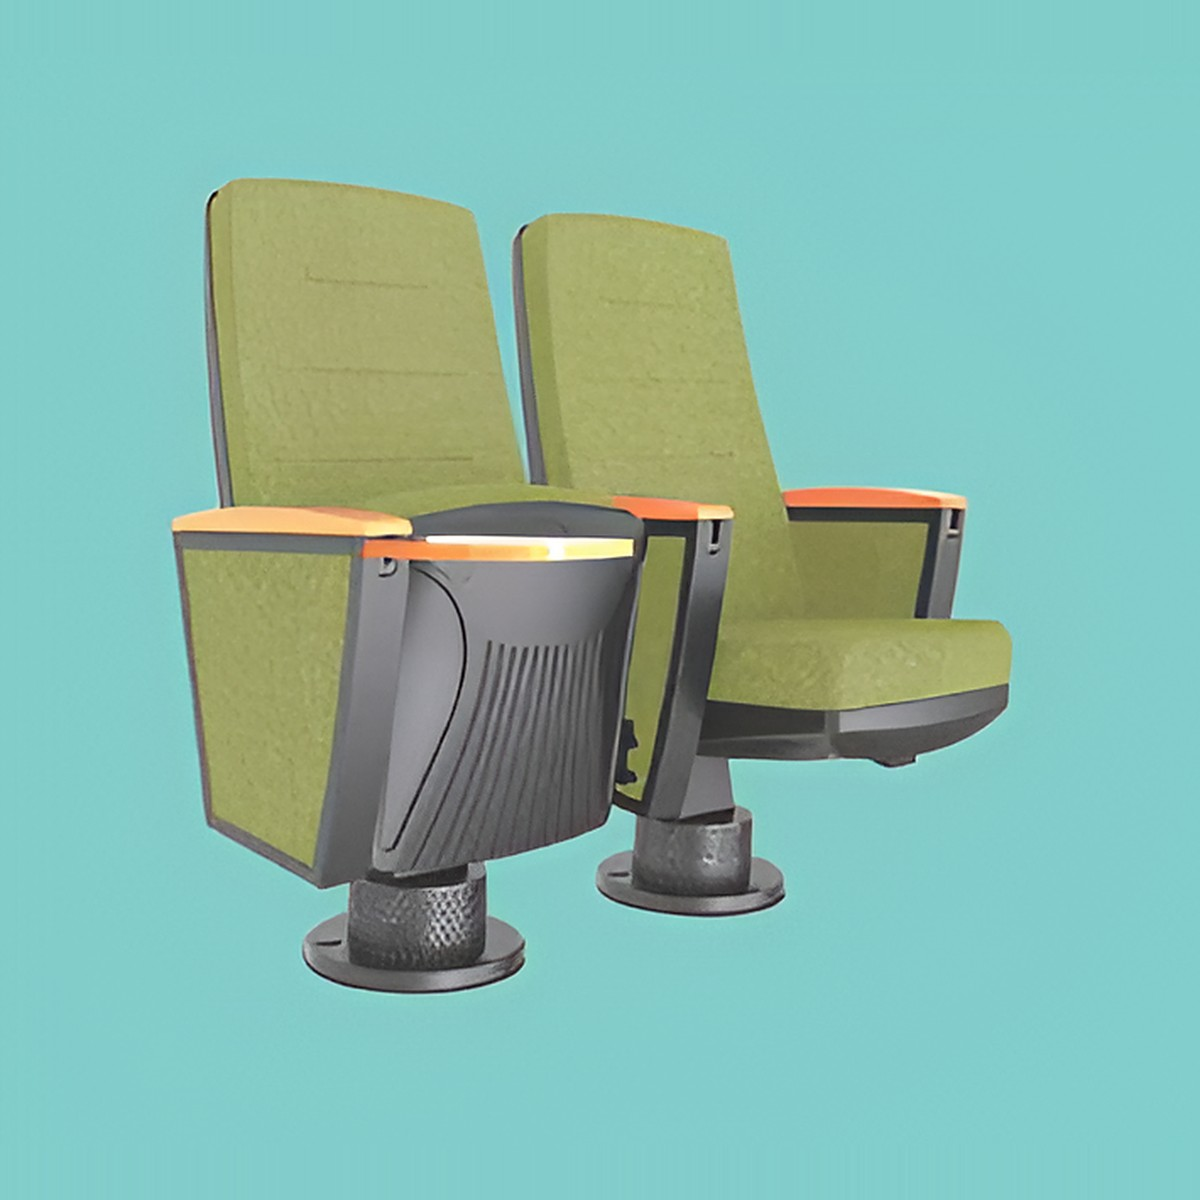
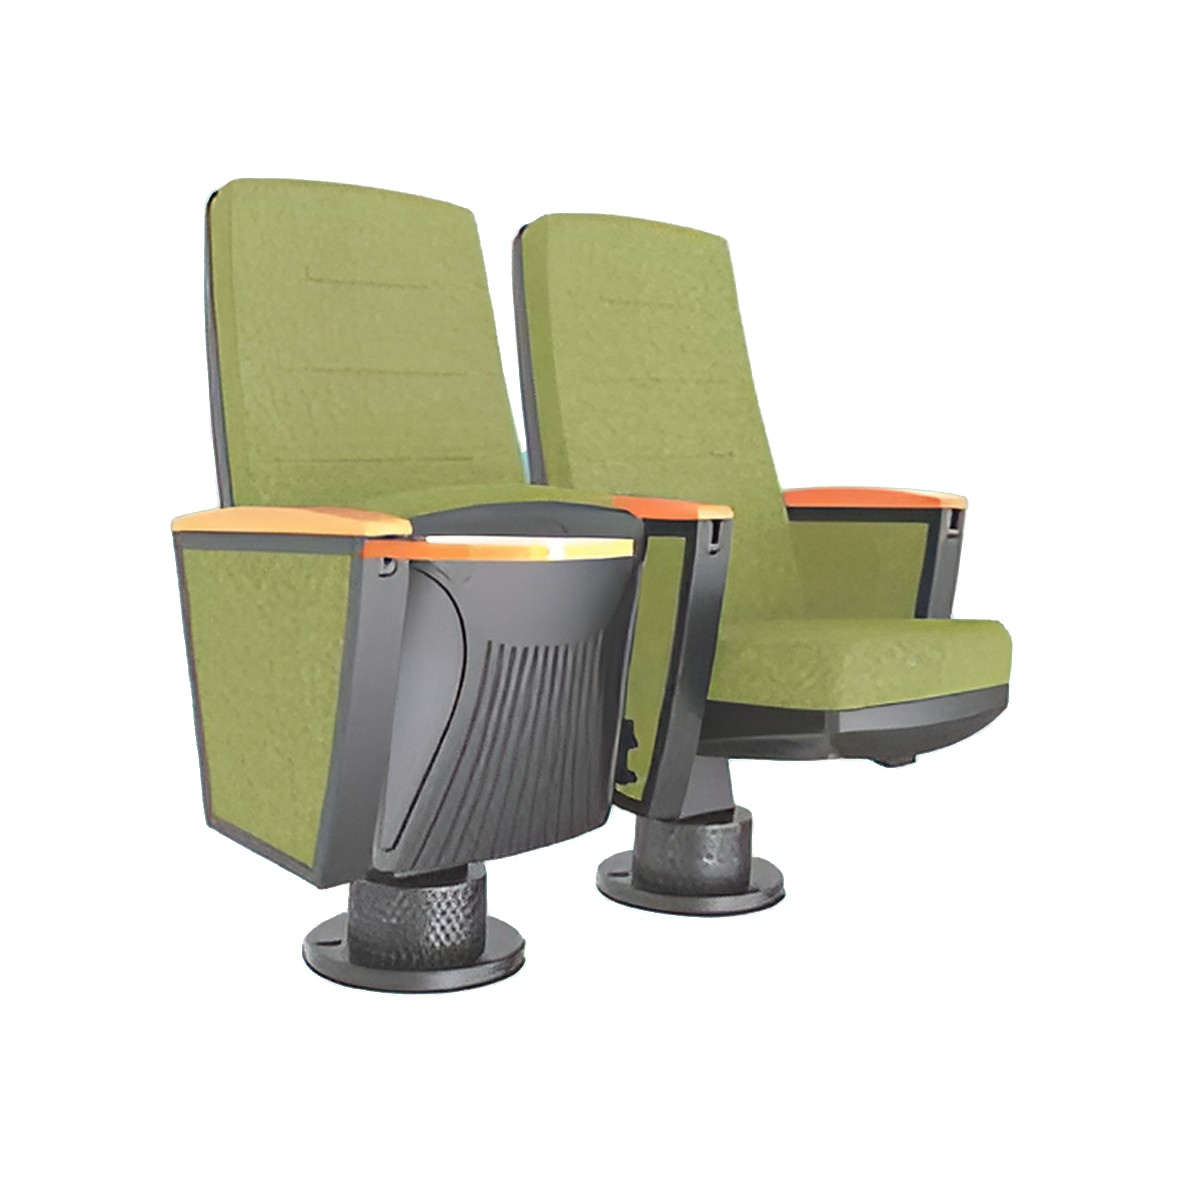
Update hero beranda dan latar foto produk putih

diff --git a/style.css b/style.css
@@ -1169,3 +1169,35 @@ h2 em, .hero h1 em { font-style: normal; color: var(--accent); }
 .site-footer .brand-logo { height: 62px; }
 :root[data-theme="dark"] .site-header .brand-logo { height: 56px; }
 @media (max-width: 640px) { .brand-logo { height: 40px; } :root[data-theme="dark"] .site-header .brand-logo { height: 42px; } }
+
+
+/* ===== Hero beranda: teks kiri, kartu poin kanan (tanpa foto latar) ===== */
+.hero-home { position: relative; overflow: hidden; padding: clamp(48px, 7vw, 96px) 0 clamp(56px, 8vw, 104px); background: radial-gradient(900px 420px at 88% 8%, var(--accent-soft), transparent 70%), var(--bg); }
+.hero-home-inner { display: grid; grid-template-columns: 1.05fr .95fr; gap: clamp(32px, 5vw, 72px); align-items: center; }
+.hero-home .hero-copy { max-width: 600px; }
+.hero-home h1 { margin: 20px 0; color: var(--heading); font: 800 clamp(32px, 4.4vw, 56px)/1.1 Manrope, sans-serif; letter-spacing: -.035em; overflow-wrap: break-word; }
+.hero-home .hero-copy > p { margin: 0; max-width: 540px; color: var(--muted); font-size: clamp(14px, 1.4vw, 16px); line-height: 1.85; }
+.hero-home .hero-actions { margin-top: 30px; }
+.hh-cards { display: grid; grid-template-columns: repeat(2, 1fr); gap: 16px; }
+.hh-card { display: flex; flex-direction: column; gap: 14px; padding: 22px; background: var(--surface); border: 1px solid var(--border); border-radius: 16px; box-shadow: var(--shadow); transition: transform .2s ease, border-color .2s ease; }
+.hh-card:hover { transform: translateY(-3px); border-color: var(--accent); }
+.hh-card h3 { margin: 0 0 6px; color: var(--heading); font: 700 16px/1.35 Manrope, sans-serif; }
+.hh-card p { margin: 0; color: var(--muted); font-size: 13.5px; line-height: 1.65; }
+.hh-card:nth-child(even) { transform: translateY(18px); }
+.hh-card:nth-child(even):hover { transform: translateY(15px); }
+.hh-cards { padding-bottom: 18px; }
+@media (max-width: 900px) {
+  .hero-home-inner { grid-template-columns: 1fr; }
+  .hh-card:nth-child(even), .hh-card:nth-child(even):hover { transform: none; }
+  .hh-cards { padding-bottom: 0; }
+}
+@media (max-width: 640px) {
+  .hh-cards { grid-template-columns: 1fr; gap: 12px; }
+  .hh-card { flex-direction: row; align-items: flex-start; padding: 18px; }
+  .hero-home .hero-actions .btn { flex: 1 1 100%; }
+}
+
+/* Latar foto produk: putih polos */
+.pcard-img, .model-photo { background: #fff; }
+:root[data-theme="dark"] .pcard-img { background: #fff; }
+:root[data-theme="dark"] main .pcard-img img, :root[data-theme="dark"] main .model-photo img { filter: none; }

diff --git a/index.html b/index.html
@@ -51,16 +51,15 @@
   </header>
 
   <main>
-    <section class="hero hero-int">
-      <div class="hero-background"><img src="images/hero-zeco-full.jpg" alt="Ruang auditorium dengan kursi biru Zeco menghadap panggung dan layar" width="1672" height="941" fetchpriority="high" decoding="async"></div>
-      <div class="hero-overlay"></div>
-      <div class="container hero-content">
+    <section class="hero-home">
+      <div class="container hero-home-inner">
         <div class="hero-copy">
           <span class="eyebrow"><i></i>KURSI AUDITORIUM</span>
           <h1>Kursi Auditorium Zeco untuk Ruang Acara Anda</h1>
           <p>Pilihan 13 model kursi auditorium Zeco untuk aula, kampus, ruang seminar, dan gedung pertemuan. Kirim ukuran ruangan Anda, kami bantu menentukan model dan jumlah yang sesuai.</p>
           <div class="hero-actions"><a class="btn btn-primary" href="https://wa.me/628113301819?text=Halo%2C%20saya%20ingin%20meminta%20penawaran%20kursi%20auditorium" target="_blank" rel="noopener">Minta Penawaran via WhatsApp <span>↗</span></a><a class="btn btn-outline" href="produk.html">Lihat Semua Model</a></div>
         </div>
+        <div class="hh-cards"><article class="hh-card"><span class="b2b-icon" aria-hidden="true"><svg viewBox="0 0 24 24" aria-hidden="true"><path d="M7 4h10a2 2 0 0 1 2 2v7H5V6a2 2 0 0 1 2-2z"/><path d="M4 13h16v4a1 1 0 0 1-1 1H5a1 1 0 0 1-1-1z"/><path d="M7 18v3M17 18v3"/></svg></span><div><h3>13 Model Zeco</h3><p>Banyak pilihan model dalam satu tempat untuk berbagai kebutuhan ruangan.</p></div></article><article class="hh-card"><span class="b2b-icon" aria-hidden="true"><svg viewBox="0 0 24 24" aria-hidden="true"><path d="M3 7h18v10H3z"/><path d="M7 7v4M11 7v2M15 7v4M19 7v2"/></svg></span><div><h3>Sesuai Ukuran Ruangan</h3><p>Kirim ukuran ruangan Anda, kami bantu hitung jumlah dan tata letak kursi.</p></div></article><article class="hh-card"><span class="b2b-icon" aria-hidden="true"><svg viewBox="0 0 24 24" aria-hidden="true"><path d="M3 21V10l9-6 9 6v11"/><path d="M9 21v-6h6v6"/></svg></span><div><h3>Untuk Berbagai Ruang</h3><p>Aula, kampus, ruang seminar, dan gedung pertemuan.</p></div></article><article class="hh-card"><span class="b2b-icon" aria-hidden="true"><svg viewBox="0 0 24 24" aria-hidden="true"><path d="M20 6L9 17l-5-5"/></svg></span><div><h3>Sesuai Anggaran</h3><p>Pilihan model disesuaikan dengan anggaran proyek Anda.</p></div></article></div>
       </div>
       <div class="hero-bottom-line"></div>
     </section>
